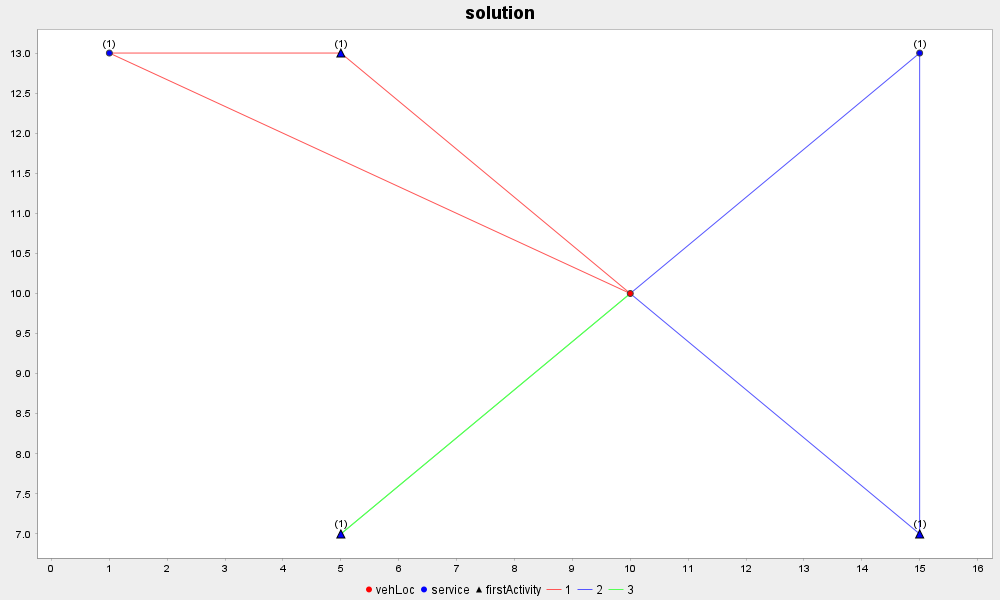
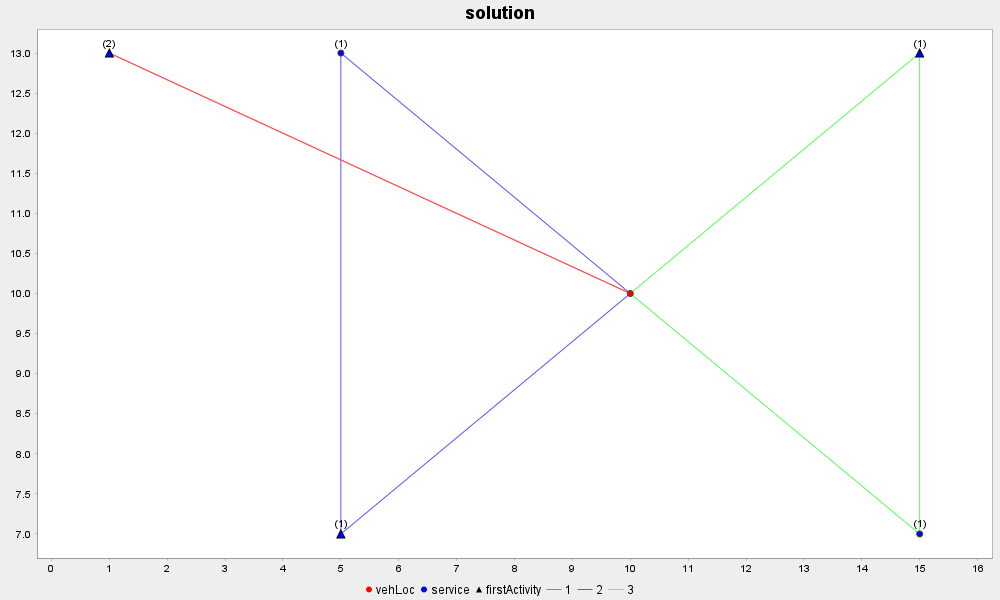
add jsprit

diff --git a/explore/jsprit/src/main/java/org/peter/SampleExample.java b/explore/jsprit/src/main/java/org/peter/SampleExample.java
@@ -42,7 +42,7 @@ public class SampleExample {
         Service service2 = Service.Builder.newInstance("2").addSizeDimension(WEIGHT_INDEX, 1).setLocation(Location.newInstance(5, 13)).build();
         Service service3 = Service.Builder.newInstance("3").addSizeDimension(WEIGHT_INDEX, 1).setLocation(Location.newInstance(15, 7)).build();
         Service service4 = Service.Builder.newInstance("4").addSizeDimension(WEIGHT_INDEX, 1).setLocation(Location.newInstance(15, 13)).build();
-        Service service5 = Service.Builder.newInstance("5").addSizeDimension(WEIGHT_INDEX, 1).setLocation(Location.newInstance(1, 13)).build();
+        Service service5 = Service.Builder.newInstance("5").addSizeDimension(WEIGHT_INDEX, 2).setLocation(Location.newInstance(1, 13)).build();
 
         /*
          * again define a builder to build the VehicleRoutingProblem
